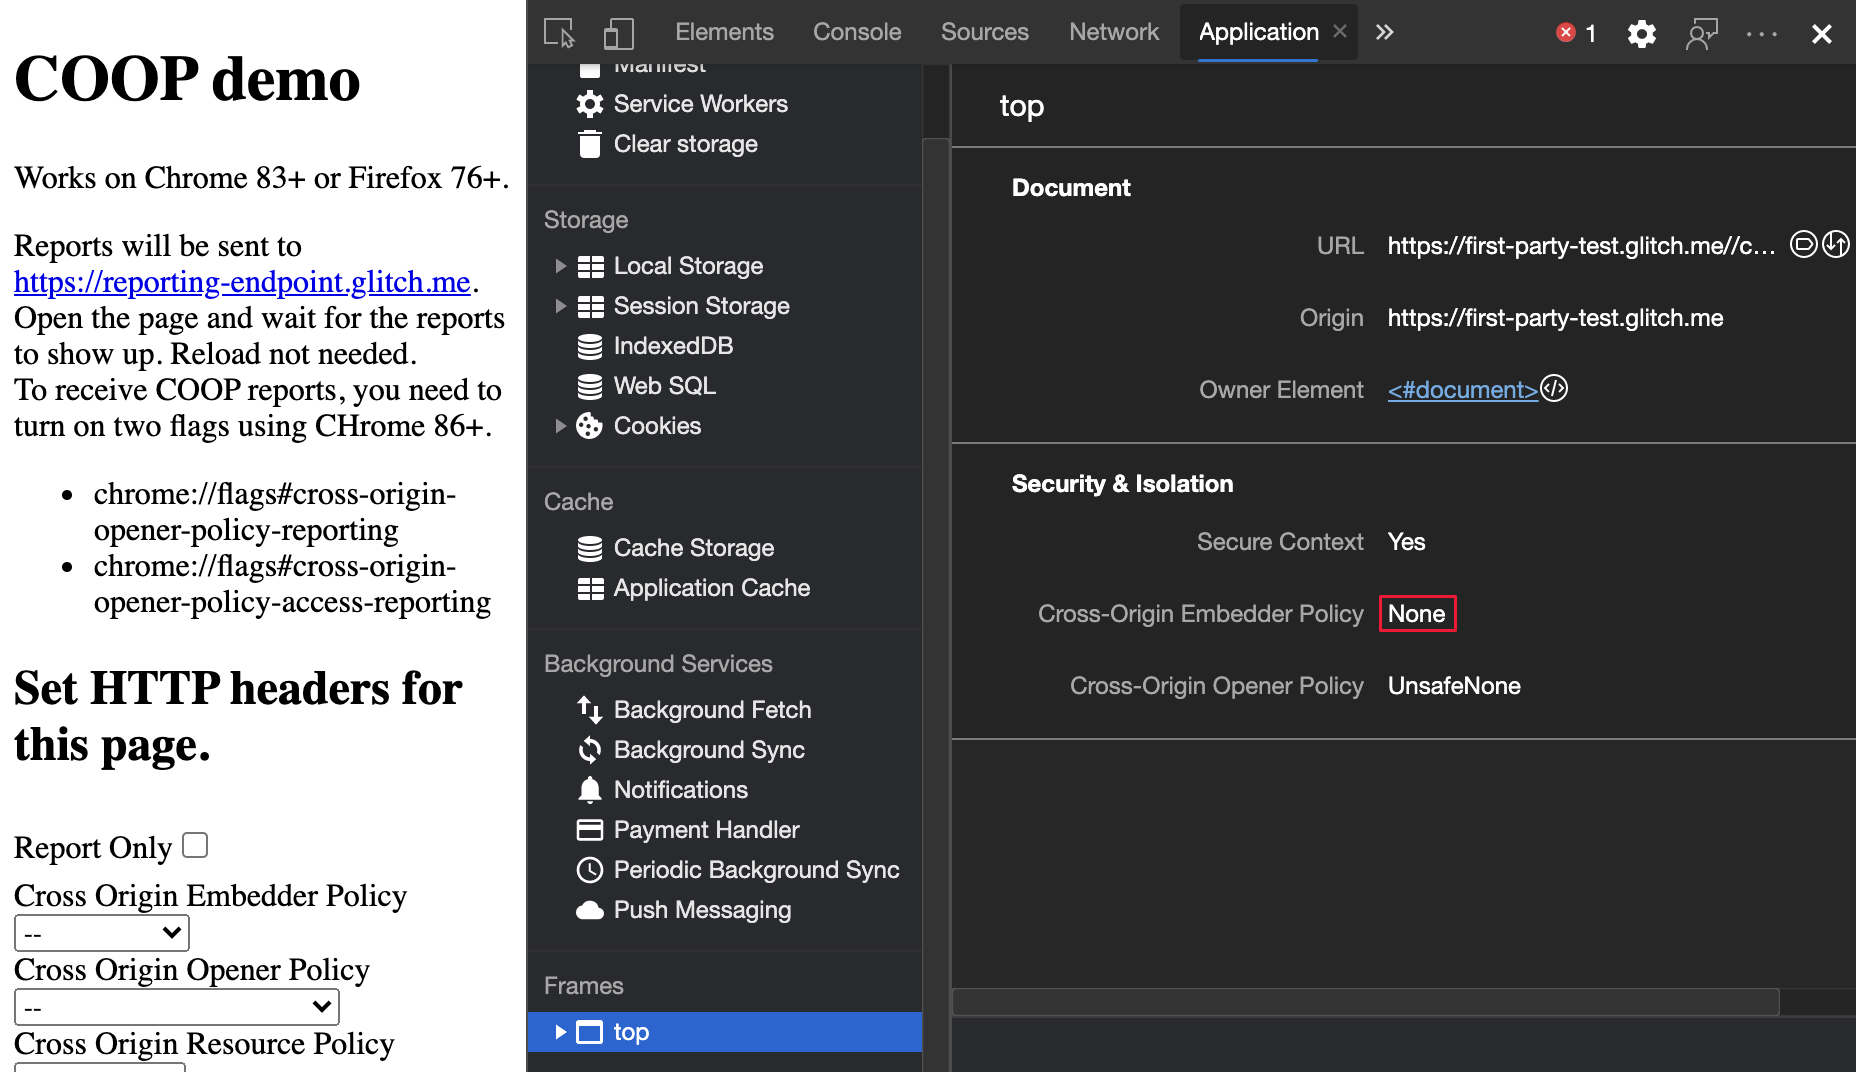
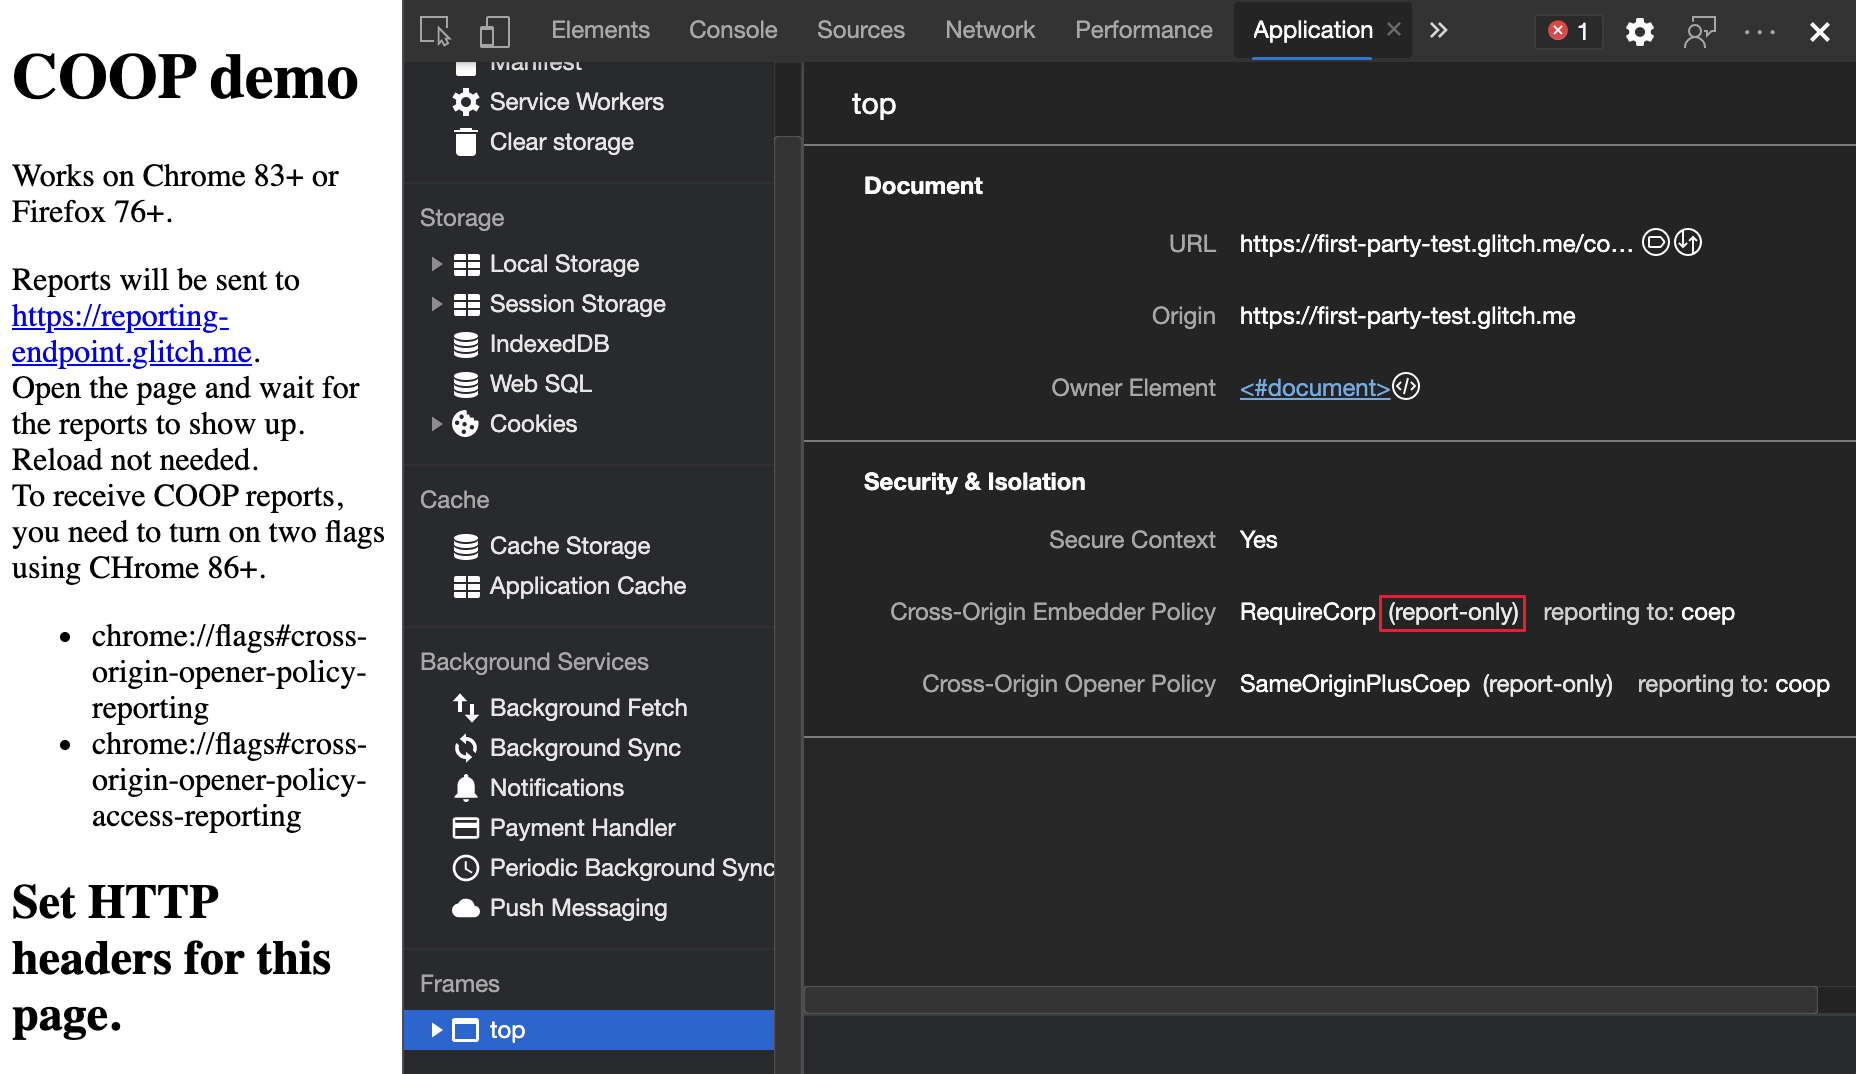
commit from WebFundamentals

diff --git a/microsoft-edge/devtools-guide-chromium/whats-new/2020/10/devtools.md b/microsoft-edge/devtools-guide-chromium/whats-new/2020/10/devtools.md
@@ -93,8 +93,6 @@ To review real-time updates on this feature in the Chromium open-source project,
    Experimental feature  
 :::image-end:::  
 
-<!--TODO Ask Rachel to verify  -->  
-
 In Microsoft Edge version 87, the new **CSS grid debugging** features are now available.  The Microsoft Edge DevTools now support the following features for inspecting, viewing, and debugging your [CSS grids][DevtoolsCssGrid].  
 
 *   Display a simplified grid overlay using the **Inspect** tool, or get more detailed information with persistent overlays.  
@@ -118,8 +116,6 @@ The Microsoft Edge DevTools team is collaborating with the Chrome DevTools team 
 
 You are now able to customize the keyboard shortcut for any action in the DevTools.  Starting in Microsoft Edge version 84, you may choose between **Visual Studio Code** and **DevTools (default)** presets for [keyboard shortcuts][DevtoolsCustomizeShortcuts].  In Microsoft Edge version 87, you may turn on the **Enable keyboard shortcut editor** experiment to further [customize keyboard shortcuts][DevtoolsExperimentalFeaturesEnableKeyboardShortcutEditor].  
 
-
-<!-- todo redo w/o nav -->  
 :::image type="complex" source="../../media/2020/10/custom-shortcut-pause-script.msft.png" alt-text="Custom shortcut for pausing a script" lightbox="../../media/2020/10/custom-shortcut-pause-script.msft.png":::
    Custom shortcut for pausing a script  
 :::image-end:::  
@@ -137,7 +133,6 @@ The **Elements for Visual Studio Code** and **Network for Visual Studio Code** e
 *   Inspect network traffic  
 
 With the extension, launch Microsoft Edge, connect to an existing instance of the browser, or use a headless browser directly from your editor.  
-
 
 <!--reproduce both image in visual studio code -->  
 :::row:::
@@ -163,10 +158,18 @@ To start contributing and filing issues with your feedback, navigate to the [Mic
 
 Emulate authenticators and debug the [Web Authentication API][GithubW3cWebauthn] with the new [WebAuthn][DevtoolsWebauthnIndex] tool.  To open the **WebAuthn** tool, choose the **Customize and control DevTools** \(`...`\) icon > **More tools** > **WebAuthn**.  
 
-<!--todo: side by side  of open tool -->  
-:::image type="complex" source="../../media/2020/10/more-tools-webauthn.msft.png" alt-text="WebAuthn tool" lightbox="../../media/2020/10/more-tools-webauthn.msft.png":::
-   **WebAuthn** tool  
-:::image-end:::  
+:::row:::
+   :::column span="":::
+      :::image type="complex" source="../../media/2020/10/more-tools-webauthn.msft.png" alt-text="Open the WebAuthn tool" lightbox="../../media/2020/10/more-tools-webauthn.msft.png":::
+         Open the **WebAuthn** tool  
+      :::image-end:::  
+   :::column-end:::  
+   :::column span="":::
+      :::image type="complex" source="../../media/2020/10/webauthn-enable-virtual-auth.msft.png" alt-text="WebAuthn tool" lightbox="../../media/2020/10/webauthn-enable-virtual-auth.msft.png":::
+         **WebAuthn** tool  
+      :::image-end:::  
+   :::column-end:::
+:::row-end:::  
 
 In earlier versions of Microsoft Edge, there was no native WebAuthn debugging support.  You needed physical authenticators to test your web application with the [Web Authentication API][GithubW3cWebauthn].  With the new **WebAuthn** tool, you are able to do the following actions without the use of any physical authenticators.  
 
@@ -184,10 +187,18 @@ To review real-time updates on this feature in the Chromium open-source project,
 
 Toggle the **Computed** pane in the **Styles** tool.  The **Computed** pane in the **Styles** tool is collapsed by default.  To toggle it, choose the button.  
 
-<!--todo: side by side  of open toll -->  
-:::image type="complex" source="../../media/2020/10/computed-sidebar-pane.msft.png" alt-text="Computed sidebar pane" lightbox="../../media/2020/10/computed-sidebar-pane.msft.png":::
-   **Computed sidebar** pane  
-:::image-end:::  
+:::row:::
+   :::column span="":::
+      :::image type="complex" source="../../media/2020/10/computed-sidebar-pane.msft.png" alt-text="Open the Computed sidebar pane" lightbox="../../media/2020/10/computed-sidebar-pane.msft.png":::
+         Open the **Computed sidebar** pane  
+      :::image-end:::  
+   :::column-end:::  
+   :::column span="":::
+      :::image type="complex" source="../../media/2020/10/computed-sidebar-pane-open.msft.png" alt-text="Computed sidebar pane" lightbox="../../media/2020/10/computed-sidebar-pane-open.msft.png":::
+         **Computed sidebar** pane  
+      :::image-end:::  
+   :::column-end:::
+:::row-end:::  
 
 To review real-time updates on this feature in the Chromium open-source project, navigate to Issue [#1073899][CR1073899].  
 
@@ -212,7 +223,7 @@ To review real-time updates on this feature in the Chromium open-source project,
 The **Timings section** of a recording in the [Performance][DevtoolsGuideChromiumEvaluatePerformanceReference] tool now marks `performance.mark()` events.  
 
 <!--todo Zoher clarification -->  
-In order to use this feature, you must add `performance.mark()` to your project.  
+To use this feature, you must add `performance.mark()` to your project.  
 
 :::image type="complex" source="../../media/2020/10/perf-mark.msft.png" alt-text="Performance.mark events" lightbox="../../media/2020/10/perf-mark.msft.png":::
    `performance.mark` events  
@@ -242,7 +253,6 @@ The [Reporting API][MdnReportingApi] defines, `Report-To`, a new HTTP header. Th
 
 The **Reporting API** defines a new HTTP header, `Report-To`, that gives you a way to specify server endpoints for the browser to which to send warnings and errors.  
 
-<!--TODO replace with edge demo -->  
 :::image type="complex" source="../../media/2020/10/https_first_party_test_glitch_me_coop-1.msft.png" alt-text="reporting to endpoint" lightbox="../../media/2020/10/https_first_party_test_glitch_me_coop-1.msft.png":::
    reporting to endpoint  
 :::image-end:::  
@@ -252,8 +262,6 @@ To review real-time updates on this feature in the Chromium open-source project,
 #### Display COEP and COOP report-only mode  
 
 DevTools now display `report-only` label for COEP and COOP that are set to `report-only` mode.  
-
-<!--TODO replace with edge demo -->  
 :::image type="complex" source="../../media/2020/10/https_first_party_test_glitch_me_coop-2.msft.png" alt-text="report-only label" lightbox="../../media/2020/10/https_first_party_test_glitch_me_coop-2.msft.png":::
    report-only label  
 :::image-end:::  
